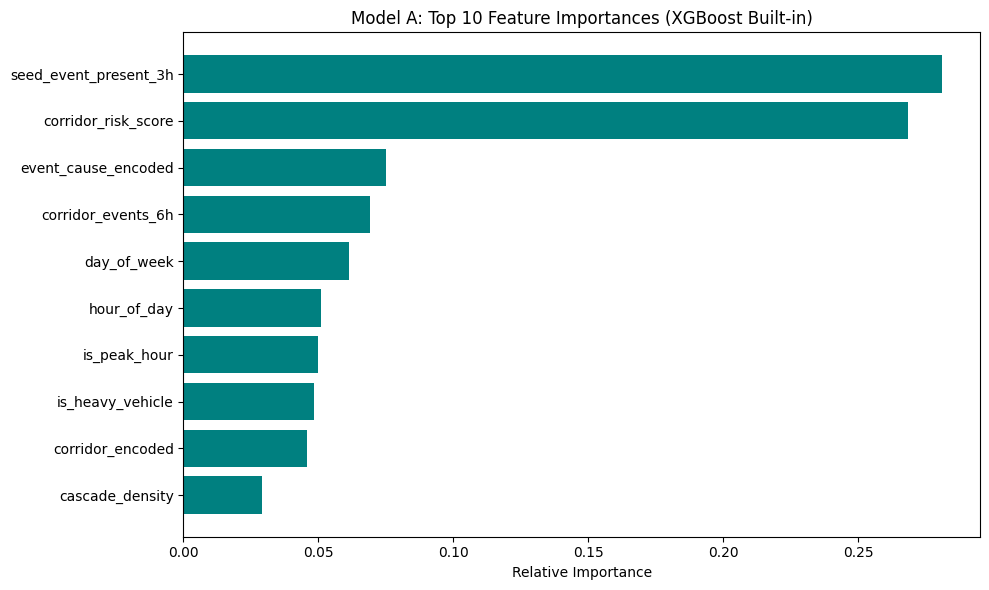
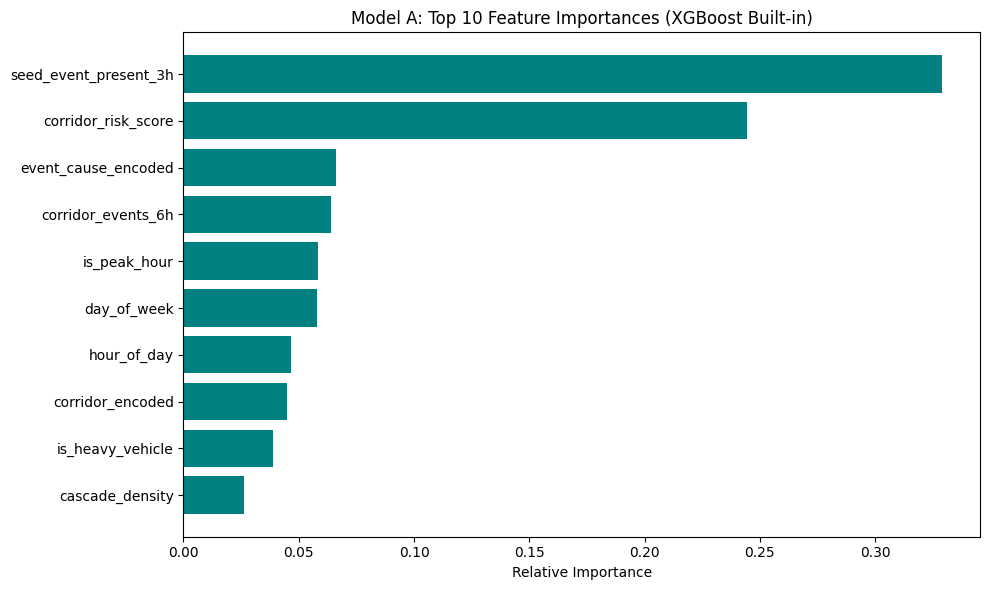
Implement senior AI/ML improvements: model calibration, vectorized data prep, real SHAP explainability, and Plotly interactive maps

diff --git a/resource_optimizer.py b/resource_optimizer.py
@@ -325,7 +325,7 @@ def generate_alert(corridor: str, seed_event_row: dict, current_resources: dict)
     alert_seq = seed_event_row.get('seq_num', 1)
     alert_id = f"ALERT-{date_clean}-{corr_code}-{alert_seq:03d}"
     
-    # 3. Estimated clearance datetime
+    # 3. Estimated clearance datetime with relative duration
     res_min = AVG_RESOLUTIONS.get(cause, 60)
     start_time_val = seed_event_row.get('start_datetime')
     if isinstance(start_time_val, str):
@@ -340,28 +340,79 @@ def generate_alert(corridor: str, seed_event_row: dict, current_resources: dict)
         
     clearance_dt = start_dt + pd.Timedelta(minutes=res_min)
     clearance_dt_ist = clearance_dt.tz_convert('Asia/Kolkata') if hasattr(clearance_dt, 'tz_convert') else clearance_dt
-    clearance_str = clearance_dt_ist.strftime('%Y-%m-%d %H:%M:%S IST')
+    
+    diff_min = int(res_min)
+    if diff_min < 60:
+        rel_str = f"~{diff_min} min"
+    else:
+        hours = diff_min // 60
+        mins = diff_min % 60
+        rel_str = f"~{hours}h {mins}m" if mins > 0 else f"~{hours}h"
+    clearance_str = f"{clearance_dt_ist.strftime('%Y-%m-%d %H:%M:%S IST')} (clears in {rel_str})"
     
     if RESOLUTION_SAMPLE_N.get(cause, 100) < 10:
         clearance_str += " (estimate — limited data)"
     
-    # 4. English SHAP representations
-    shap_factors = []
-    # Logic to mock/translate shap relative to event attributes
-    if seed_event_row.get('is_peak_hour', 0) == 1:
-        shap_factors.append("Evening peak hour")
-    else:
-        shap_factors.append("Off-peak slot traffic profile")
-        
-    if seed_event_row.get('seed_event_present_3h', 0) == 1:
-        shap_factors.append("Infrastructure seed nearby")
-    else:
-        shap_factors.append("No active surrounding blockages")
-        
-    if seed_event_row.get('is_heavy_vehicle', 0) == 1:
-        shap_factors.append("Heavy vehicle involved")
-    else:
-        shap_factors.append("Light vehicle involved")
+    # 4. English SHAP representations using real model contributions
+    import xgboost as xgb
+    row_a = {}
+    for f in FEATURES_A:
+        if f in seed_event_row:
+            row_a[f] = seed_event_row[f]
+        else:
+            if f == 'event_cause_encoded':
+                cause_grp = seed_event_row.get('event_cause_grouped', 'others')
+                row_a[f] = le_cause.transform([cause_grp])[0] if cause_grp in le_cause.classes_ else le_cause.transform(['others'])[0]
+            elif f == 'corridor_encoded':
+                corr = seed_event_row.get('corridor', 'Non-corridor')
+                row_a[f] = le_corr.transform([corr])[0] if corr in le_corr.classes_ else le_corr.transform(['Non-corridor'])[0]
+            else:
+                row_a[f] = 0
+    df_row_a = pd.DataFrame([row_a])
+    dmat = xgb.DMatrix(df_row_a[FEATURES_A])
+    
+    # Average contributions from all calibrated base estimators
+    contribs = []
+    for clf in model_a.calibrated_classifiers_:
+        booster = clf.estimator.get_booster()
+        contribs.append(booster.predict(dmat, pred_contribs=True)[0])
+    mean_contribs = np.mean(contribs, axis=0)
+    feature_contribs = mean_contribs[:-1]
+    
+    contrib_dict = dict(zip(FEATURES_A, feature_contribs))
+    
+    feature_labels = {
+        'hour_of_day': 'Hour of day profile',
+        'day_of_week': 'Day of week pattern',
+        'is_weekend': 'Weekend traffic load',
+        'is_peak_hour': 'Peak commute hours',
+        'is_heavy_vehicle': 'Heavy vehicle risk',
+        'corridor_risk_score': 'Corridor baseline risk',
+        'corridor_events_2h': 'Recent event rate (2h)',
+        'corridor_events_6h': 'Persistent event rate (6h)',
+        'seed_event_present_3h': 'Recent infrastructure seeds',
+        'cascade_density': 'Historical cascade density',
+        'event_cause_encoded': 'Incident cause severity',
+        'corridor_encoded': 'Corridor local vulnerability'
+    }
+    
+    # Sort descending by positive impact (features driving up the risk score)
+    sorted_contribs = sorted(contrib_dict.items(), key=lambda x: x[1], reverse=True)
+    
+    shap_top = []
+    shap_values = []
+    for name, val in sorted_contribs:
+        # Avoid showing non-important contributors or raw encodings if possible
+        label = feature_labels.get(name, name)
+        shap_top.append(label)
+        shap_values.append(max(0.001, float(val)))
+        if len(shap_top) == 3:
+            break
+            
+    # Fallbacks if list is empty
+    while len(shap_top) < 3:
+        shap_top.append("Baseline operational parameters")
+        shap_values.append(0.10)
         
     return {
         "alert_id": alert_id,
@@ -388,7 +439,8 @@ def generate_alert(corridor: str, seed_event_row: dict, current_resources: dict)
             "prio_flag": prio_flag
         },
         "estimated_clearance_ist": clearance_str,
-        "shap_top3": shap_factors[:3]
+        "shap_top3": shap_top,
+        "shap_values3": shap_values
     }
 
 

diff --git a/model_pipeline.py b/model_pipeline.py
@@ -24,6 +24,7 @@ except ModuleNotFoundError:
 import joblib
 import matplotlib.pyplot as plt
 from sklearn.preprocessing import LabelEncoder
+from sklearn.calibration import CalibratedClassifierCV
 from sklearn.metrics import classification_report, confusion_matrix, mean_absolute_error, mean_squared_error
 from pathlib import Path
 
@@ -152,30 +153,17 @@ corridor_df = df[~df['corridor'].isin(['Non-corridor', 'NULL']) & df['corridor']
 # Sort by corridor, then start_datetime
 corridor_df = corridor_df.sort_values(by=['corridor', 'start_datetime']).reset_index(drop=True)
 
-# Compute cascade seeds
-is_cascade_seed = []
-secondary_counts = []
+# Vectorized cascade seed computation (replaces O(n^2) iterrows loop)
+df_corr_ids = corridor_df[['id', 'corridor', 'start_datetime']].copy()
+merged_seeds = df_corr_ids.merge(df_corr_ids, on='corridor', suffixes=('_seed', '_follow'))
+merged_seeds = merged_seeds[
+    (merged_seeds['start_datetime_follow'] > merged_seeds['start_datetime_seed']) &
+    (merged_seeds['start_datetime_follow'] <= merged_seeds['start_datetime_seed'] + pd.Timedelta(minutes=120))
+]
+sec_counts = merged_seeds.groupby('id_seed').size().to_dict()
 
-for i, row in corridor_df.iterrows():
-    curr_time = row['start_datetime']
-    curr_corridor = row['corridor']
-    
-    # Get subsequent events on same corridor in next 120 minutes (strictly after current event)
-    subsequent = corridor_df.iloc[i+1:]
-    subsequent_same_corr = subsequent[subsequent['corridor'] == curr_corridor]
-    
-    window_end = curr_time + pd.Timedelta(minutes=120)
-    following_events = subsequent_same_corr[
-        (subsequent_same_corr['start_datetime'] > curr_time) & 
-        (subsequent_same_corr['start_datetime'] <= window_end)
-    ]
-    
-    count = len(following_events)
-    secondary_counts.append(count)
-    is_cascade_seed.append(count >= 3)
-
-corridor_df['is_cascade_seed'] = is_cascade_seed
-corridor_df['secondary_count'] = secondary_counts
+corridor_df['secondary_count'] = corridor_df['id'].map(sec_counts).fillna(0).astype(int)
+corridor_df['is_cascade_seed'] = corridor_df['secondary_count'] >= 3
 
 # Merge these back into the main dataframe (Non-corridor rows get False/0)
 df = df.merge(
@@ -213,34 +201,29 @@ df['corridor_events_2h'] = 0
 df['corridor_events_6h'] = 0
 df['seed_event_present_3h'] = 0
 
-# Group by corridor to calculate features
+# Group by corridor and compute vectorized rolling lookbacks
+seed_causes = {'water_logging', 'tree_fall', 'pot_holes', 'construction'}
+
 for corr, group in df.groupby('corridor'):
-    c_2h = []
-    c_6h = []
-    seed_3h = []
+    timestamps = group['start_datetime'].values
     
-    seed_causes = {'water_logging', 'tree_fall', 'pot_holes', 'construction'}
+    idx_2h = np.searchsorted(timestamps, timestamps - np.timedelta64(2, 'h'), side='left')
+    idx_6h = np.searchsorted(timestamps, timestamps - np.timedelta64(6, 'h'), side='left')
+    idx_3h = np.searchsorted(timestamps, timestamps - np.timedelta64(3, 'h'), side='left')
     
-    for idx, t in enumerate(group['start_datetime']):
-        t_2h_ago = t - pd.Timedelta(hours=2)
-        t_6h_ago = t - pd.Timedelta(hours=6)
-        t_3h_ago = t - pd.Timedelta(hours=3)
-        
-        past_group = group.iloc[:idx]
-        
-        events_2h = past_group[past_group['start_datetime'] >= t_2h_ago]
-        events_6h = past_group[past_group['start_datetime'] >= t_6h_ago]
-        events_3h = past_group[past_group['start_datetime'] >= t_3h_ago]
-        
-        c_2h.append(len(events_2h))
-        c_6h.append(len(events_6h))
-        
-        has_seed = 1 if any(events_3h['event_cause_grouped'].isin(seed_causes)) else 0
-        seed_3h.append(has_seed)
-        
+    row_indices = np.arange(len(group))
+    c_2h = row_indices - idx_2h
+    c_6h = row_indices - idx_6h
+    
+    is_seed_cause = group['event_cause_grouped'].isin(seed_causes).astype(int).values
+    cumsum_seeds = np.zeros(len(group) + 1, dtype=int)
+    cumsum_seeds[1:] = np.cumsum(is_seed_cause)
+    
+    seeds_3h = (cumsum_seeds[row_indices] - cumsum_seeds[idx_3h] > 0).astype(int)
+    
     df.loc[group.index, 'corridor_events_2h'] = c_2h
     df.loc[group.index, 'corridor_events_6h'] = c_6h
-    df.loc[group.index, 'seed_event_present_3h'] = seed_3h
+    df.loc[group.index, 'seed_event_present_3h'] = seeds_3h
 
 # Compute cascade density
 corridor_total_counts = df['corridor'].value_counts().to_dict()
@@ -305,7 +288,7 @@ num_pos = (y_train_a == 1).sum()
 scale_pos_weight = num_neg / num_pos if num_pos > 0 else 1.0
 print(f"Computed scale_pos_weight: {scale_pos_weight:.3f}")
 
-model_a = xgb.XGBClassifier(
+base_model_a = xgb.XGBClassifier(
     n_estimators=300,
     max_depth=6,
     learning_rate=0.05,
@@ -314,6 +297,7 @@ model_a = xgb.XGBClassifier(
     use_label_encoder=False,
     eval_metric='logloss'
 )
+model_a = CalibratedClassifierCV(estimator=base_model_a, method='isotonic', cv=5)
 model_a.fit(X_train_a, y_train_a)
 
 probs_test = model_a.predict_proba(X_test_a)[:, 1]
@@ -349,7 +333,7 @@ print(confusion_matrix(y_test_a, final_preds_a))
 
 if HAS_SHAP:
     try:
-        explainer = shap.TreeExplainer(model_a)
+        explainer = shap.TreeExplainer(model_a.calibrated_classifiers_[0].estimator)
         shap_values = explainer(X_test_a)
 
         plt.figure(figsize=(10, 6))
@@ -364,7 +348,8 @@ if HAS_SHAP:
         HAS_SHAP = False
 
 if not HAS_SHAP:
-    importances = model_a.feature_importances_
+    # Extract importances from calibrated base estimators
+    importances = np.mean([est.estimator.feature_importances_ for est in model_a.calibrated_classifiers_], axis=0)
     indices = np.argsort(importances)[::-1][:10]
     names = [features_a[i] for i in indices]
 

diff --git a/app.py b/app.py
@@ -3,8 +3,6 @@ import pandas as pd
 import numpy as np
 import plotly.express as px
 import plotly.graph_objects as go
-import folium
-from streamlit_folium import st_folium
 from pathlib import Path
 from datetime import datetime
 
@@ -261,32 +259,44 @@ if page == "Command Overview":
         
     with right_col:
         st.subheader("Live Operations Map")
-        map_center = [12.9716, 77.5946]
-        m = folium.Map(location=map_center, zoom_start=11)
-        
-        # Plot circle markers for filtered events
-        map_source = filtered_df.dropna(subset=['latitude', 'longitude'])
+        map_source = filtered_df.dropna(subset=['latitude', 'longitude']).copy()
         map_truncated = len(map_source) > 500
         map_data = map_source.head(500)
-        color_map = {'high': '#991b1b', 'medium': '#d97706', 'low': '#065f46'}
         
-        for idx, row in map_data.iterrows():
-            sev = str(row['congestion_severity']).lower()
-            color = color_map.get(sev, '#3b82f6')
-            risk = float(row['corridor_risk_score']) if not pd.isna(row['corridor_risk_score']) else 0.0
-            radius = max(risk * 10, 4)
+        if not map_data.empty:
+            map_data['severity_display'] = map_data['congestion_severity'].str.upper()
+            fig_map = px.scatter_mapbox(
+                map_data,
+                lat='latitude',
+                lon='longitude',
+                color='congestion_severity',
+                color_discrete_map={'high': '#ef4444', 'medium': '#f59e0b', 'low': '#10b981'},
+                size=map_data['corridor_risk_score'].fillna(0).clip(lower=0.1) * 15 + 5,
+                hover_name='corridor',
+                hover_data={'event_cause': True, 'severity_display': True, 'corridor_risk_score': ':.2f', 'latitude': False, 'longitude': False},
+                zoom=10.5,
+                center=dict(lat=12.9716, lon=77.5946),
+                height=400
+            )
+            fig_map.update_layout(
+                mapbox_style='open-street-map',
+                margin=dict(l=0, r=0, t=0, b=0),
+                showlegend=True,
+                legend=dict(
+                    title="Severity",
+                    yanchor="top",
+                    y=0.98,
+                    xanchor="left",
+                    x=0.02,
+                    bgcolor="rgba(255, 255, 255, 0.9)",
+                    bordercolor="#e2e8f0",
+                    borderwidth=1
+                )
+            )
+            st.plotly_chart(fig_map, width='stretch')
+        else:
+            st.info("No geocoded incidents to map for this period.")
             
-            folium.CircleMarker(
-                location=[row['latitude'], row['longitude']],
-                radius=radius,
-                color=color,
-                fill=True,
-                fill_color=color,
-                fill_opacity=0.6,
-                popup=f"Corridor: {row['corridor']}<br>Cause: {row['event_cause']}<br>Risk: {risk:.2f}<br>Severity: {sev.upper()}"
-            ).add_to(m)
-            
-        st_folium(m, width='stretch', height=400)
         if map_truncated:
             st.caption(f"Showing 500 of {len(map_source)} events. Apply filters to narrow down.")
         
@@ -425,14 +435,11 @@ elif page == "Cascade Alert System":
         
     st.write("")
     
-    # Horizontal Bar Chart — derive relative weights from context
+    # Horizontal Bar Chart — using true SHAP feature contributions
     shap_labels = alert_details['shap_top3']
-    # Compute dynamic weights based on actual risk factors
-    w1 = 0.20 + (0.30 * risk)  # Peak hour impact scales with risk
-    w2 = 0.15 + (0.20 * int(event_row_dict.get('seed_event_present_3h', 0)))
-    w3 = 0.10 + (0.15 * int(event_row_dict.get('is_heavy_vehicle', 0)))
-    total_w = w1 + w2 + w3
-    shap_values = [round(w1/total_w, 2), round(w2/total_w, 2), round(w3/total_w, 2)]
+    shap_raw_values = alert_details.get('shap_values3', [0.33, 0.33, 0.33])
+    sum_vals = sum(shap_raw_values)
+    shap_values = [round(v / sum_vals, 2) for v in shap_raw_values] if sum_vals > 0 else [0.33, 0.33, 0.33]
     
     fig_shap = go.Figure(go.Bar(
         x=shap_values[::-1],